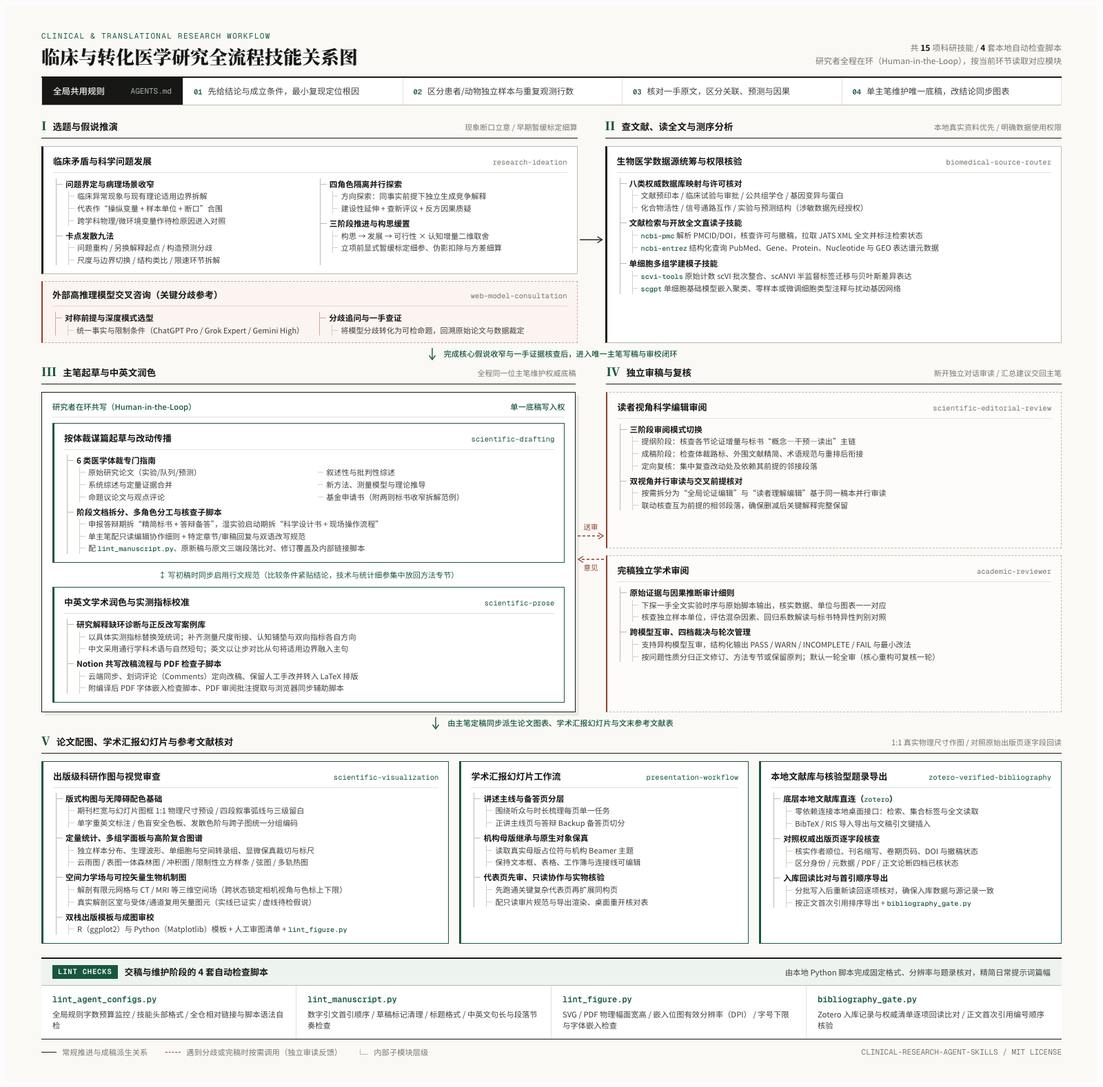
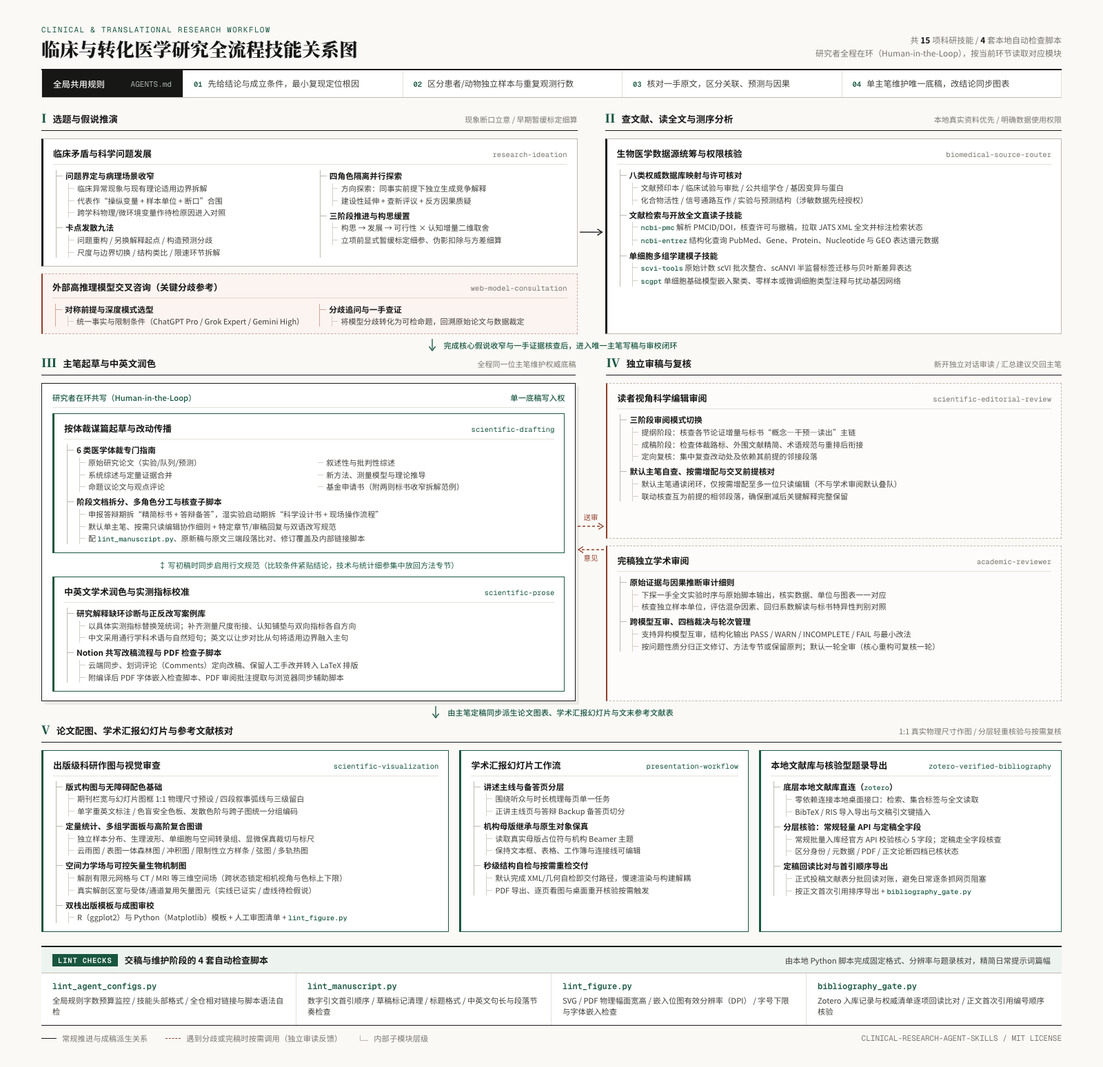
Streamline verification tiers and anti-stall delivery bounds across skills
- Add anti-stall delivery boundary and tiered verification defaults in AGENTS.md
- Decouple slide builds from slow rendering/desktop PowerPoint round-trips in presentation-workflow (second-level XML/geometry self-check by default; rendering/GUI checks on demand)
- Tier figure visual inspection in scientific-visualization (1 check + at most 1 recheck for standalone publication figures; static gate delivery for slide figures)
- Tier Notion readback in scientific-prose (local readback only after structural/batch/table-row edits)
- Default editorial review to single-lead self-check without auto-spawning or stacking subagents with academic-reviewer in scientific-drafting and scientific-editorial-review
- Add timeout/anti-stall handling and 1-round default cap in web-model-consultation
- Tier Zotero verification in zotero-verified-bibliography (structured API core-5-field check for routine imports; strict full-field readback for final submission bibliographies)
- Align README.md, README.en.md, docs/catalog.md, docs/workflow-overview.html, and docs/assets/skill-architecture.png

diff --git a/docs/workflow-overview.html b/docs/workflow-overview.html
@@ -737,7 +737,7 @@
                 <div class="branch-title">阶段文档拆分、多角色分工与核查子脚本</div>
                 <div class="tree-l2">
                   <div class="leaf">申报答辩期拆“精简标书 + 答辩备答”，湿实验启动期拆“科学设计书 + 现场操作流程”</div>
-                  <div class="leaf">单主笔配只读编辑协作细则 + 特定章节/审稿回复与双语改写规范</div>
+                  <div class="leaf">默认单主笔、按需只读编辑协作细则 + 特定章节/审稿回复与双语改写规范</div>
                   <div class="leaf">配 <span class="mini-code">lint_manuscript.py</span>、原新稿与原文三端段落比对、修订覆盖及内部链接脚本</div>
                 </div>
               </div>
@@ -810,9 +810,9 @@
                 </div>
               </div>
               <div class="branch">
-                <div class="branch-title">双视角并行审读与交叉前提核对</div>
+                <div class="branch-title">默认主笔自查、按需增配与交叉前提核对</div>
                 <div class="tree-l2">
-                  <div class="leaf">按需拆分为“全局论证编辑”与“读者理解编辑”基于同一稿本并行审读</div>
+                  <div class="leaf">默认主笔通读闭环，仅按需增配至多一位只读编辑（不与学术审阅默认叠队）</div>
                   <div class="leaf">联动核查互为前提的相邻段落，确保删减后关键解释完整保留</div>
                 </div>
               </div>
@@ -862,7 +862,7 @@
           <span class="col-num">V</span>
           <span class="col-title">论文配图、学术汇报幻灯片与参考文献核对</span>
         </div>
-        <span class="col-meta">1:1 真实物理尺寸作图 / 对照原始出版页逐字段回读</span>
+        <span class="col-meta">1:1 真实物理尺寸作图 / 分层轻重核验与按需复核</span>
       </div>
 
       <div class="stage5-grid">
@@ -925,10 +925,10 @@
               </div>
             </div>
             <div class="branch">
-              <div class="branch-title">代表页先审、只读协作与实物核验</div>
+              <div class="branch-title">秒级结构自检与按需重检交付</div>
               <div class="tree-l2">
-                <div class="leaf">先跑通关键复杂代表页再扩展同构页</div>
-                <div class="leaf">配只读审片规范与导出渲染、桌面重开核对表</div>
+                <div class="leaf">默认完成 XML/几何自检即交付路径，慢速渲染与构建解耦</div>
+                <div class="leaf">PDF 导出、逐页看图与桌面重开核验按需触发</div>
               </div>
             </div>
           </div>
@@ -949,16 +949,16 @@
               </div>
             </div>
             <div class="branch">
-              <div class="branch-title">对照权威出版页逐字段核查</div>
+              <div class="branch-title">分层核验：常规轻量 API 与定稿全字段</div>
               <div class="tree-l2">
-                <div class="leaf">核实作者顺位、刊名缩写、卷期页码、DOI 与撤稿状态</div>
+                <div class="leaf">常规批量入库经官方 API 校验核心 5 字段；定稿走全字段核查</div>
                 <div class="leaf">区分身份 / 元数据 / PDF / 正文论断四档已核状态</div>
               </div>
             </div>
             <div class="branch">
-              <div class="branch-title">入库回读比对与首引顺序导出</div>
+              <div class="branch-title">定稿回读比对与首引顺序导出</div>
               <div class="tree-l2">
-                <div class="leaf">分批写入后重新读回逐项核对，确保入库数据与源记录一致</div>
+                <div class="leaf">正式投稿文献表分批回读对账，避免日常逐条抓网页阻塞</div>
                 <div class="leaf">按正文首次引用排序导出 + <span class="mini-code">bibliography_gate.py</span></div>
               </div>
             </div>

diff --git a/AGENTS.md b/AGENTS.md
@@ -8,17 +8,17 @@
 ## 先行判断、根因工程与证据定标
 
 - **结论先行与根因排障**：分析评估先给出最受当前证据支持的结论及成立条件，证据未齐时明示阶段判断与待验假设；收到质疑时重核原始材料并交代实质修订依据。代码、生信管线与数值建模排障坚持**先最小复现定位根因（Fix Root Causes）**，查清量纲、主键连接、样本层级或状态流转机制后再修改，严禁在未明根因前用宽泛异常捕获、静默兜底或经验截断掩盖错误。
-- **确定性门禁与实事求是边界**：续作任务先核查并保留人工手改。对本次改动相关的可二值判定约束优先运行类型、Schema、Linter、测试或技能脚本验证；已通过且未受后续改动影响的检查不重复。脚本通过仅代表其实际覆盖项通过，绝不为消除提示删损必要科学限定；修文稿时顺带清掉同段残留标签，改代码时不顺手扩大到无关模块清理。
+- **确定性门禁与防卡死边界**：续作任务先核查并保留人工手改。对本次改动相关的可二值判定约束优先运行类型、Schema、Linter、测试或技能脚本验证；已通过且未受后续改动影响的检查不重复。脚本通过仅代表其实际覆盖项通过，绝不为消除提示删损必要科学限定；修文稿时顺带清掉同段残留标签，改代码时不顺手扩大到无关模块清理。涉及落盘产出的任务，慢速辅助检查须与主构建解耦或按需执行，严禁在未交付文件路径的情况下以“正在等待后台任务”结束回合。
 - **构思缓置与一手证据定标**：选题与假说推演调用 `research-ideation`，早期聚焦现象断口、核心假说与决定性判别预测，显式暂缓标定、伪影扣除与方差细算。事实主张须有实查代码、数据或权威数据库（经 `biomedical-source-router`）支撑，绝不编造引文或统计量；精读文献优先经 `ncbi-pmc` 获取开放获取 **PMC 全文 JATS XML** 直读（区分资源未找到与请求失败，确认无可用全文时再请用户提供 PDF），核清关键对照目的与具体实测指标。严守论断强度边界：区分关联/富集、对接几何构象与实测亲和力、预测结构、临床影像或连续监测信号同因果机制、临床疗效或细胞病理，区分孔板/视野/ROI 技术重复与独立生物学重复。
 
 ## 行文表达与领域工作流路由
 
 - **回答范围、直陈语体与媒介克制**：默认只回答当前问题，足以理解或行动即停，追问不复述既有共识，末尾不惯例追加总结或延伸服务。默认用简体中文，代码、标识符、包名、数据库与英文方法名保持英文，专业术语首现按需中英并列。优先采用具体主语与短而连贯的自然段（每段一事），省去预防性辩解与无真实分歧支撑的“不是……而是……”模板；仅在并列事项、步骤或多项比较时用列表/表格，长答标题用自然陈述句或清晰短语，禁用中圆点 `·` 串词。
 - **起草、体裁路标与改动传播**：谋篇起草或实质重构调用 `scientific-drafting`（前置挂载 `scientific-prose`，按需配 `scientific-editorial-review`，不自动扩队），既有文字润色调用 `scientific-prose`，按需运行 `lint_manuscript.py`；大幅压缩重排或合入审阅意见后须对最终导出稿做连贯度通读。医学与生物学课题以临床判别盲区或病理生理矛盾立意（问题统领方法，标定与排混退居方案支撑，有限周期课题优先做范围真减法而非仅压字数）。保持唯一主笔与单一源稿，核心主张、效应方向或主要基线变更时全域对齐摘要、正文与对应表图。按体裁区分路标与句法：期刊综述与标书压制空转总结，**命题议论文（Tutorial Essay）与观点评论须保留引言末句中心论断及各主节末尾扣题小结**；禁用生造偏正复合词或硬译审阅黑话，中文忌靠分号与长定语拼成百字代码式防御长句（合入限定须拆短句或归入难点表），英文用让步/对比从句内嵌边界（禁拆成电报短句或段尾孤立免责句），并用具体实测终点替代 `"killing"`、`"response"` 等伞状词。细节单点落位由 `scientific-prose` 维护，阶段载体拆分（`Backup` / `SOP`）由 `scientific-drafting` 维护。
-- **制图、汇报与书目门禁**：科研制图与审图调用 `scientific-visualization`，导出后先过 `lint_figure.py` 静态门禁再目视核查渲染图；幻灯片遵循 `presentation-workflow`（未指定模板时优先复用本地配置的机构学术模板技能）；书目导入、修复与顺序导出核验遵循 `zotero-verified-bibliography`；交付排版 TeX/PDF 前必先目视检查受影响页面。
+- **制图、汇报与书目门禁**：科研制图与审图调用 `scientific-visualization`（独立投稿图过 `lint_figure.py` 后目检 1 次，幻灯片附图跑完静态门禁即交付，禁反复像素微调循环）；幻灯片遵循 `presentation-workflow`（默认构建与秒级结构自检后直接交付路径由用户目检，仅按需导出 PDF、逐页渲染或桌面往返核验；未指定模板时优先复用本地配置的机构学术模板技能）；书目导入、修复与顺序导出核验遵循 `zotero-verified-bibliography`（常规入库走 API 核心字段轻量核对，定稿文献表再走全字段门禁）；正式论文/标书排版 TeX/PDF 交付前按需目视抽检受影响页面。
 
 ## 交付真值源、记忆与安全底线
 
-- **交付边界与 Notion 着色**：日常讨论与常规改句默认在聊天交付；仅在明确要求保存、维护既有记录或新建长期正式文档时写盘或写 Notion（若主力知识库为 Obsidian 或本地 Markdown，按实际工具校准唯一真值源）。无既定格式且启用 Notion 时：写前先读、保留手改、写后回读附链接，维护单一真值源，不擅自批量迁移、全页重染或公开分享。Notion 短语级克制着色：**红**标核心结论/关键数值与条件/易混区分，**蓝**标核心概念/流程/答案列表，**紫**标补充说明/示例，其余无色，纯文本导出保持纯文本。
+- **交付边界与 Notion 着色**：日常讨论与常规改句默认在聊天交付；仅在明确要求保存、维护既有记录或新建长期正式文档时写盘或写 Notion（若主力知识库为 Obsidian 或本地 Markdown，按实际工具校准唯一真值源）。无既定格式且启用 Notion 时：写前先读、保留手改，仅大改/改表后局部回读核对（局部单段写入成功即直接附链接，不整页重拉），维护单一真值源，不擅自批量迁移、全页重染或公开分享。Notion 短语级克制着色：**红**标核心结论/关键数值与条件/易混区分，**蓝**标核心概念/流程/答案列表，**紫**标补充说明/示例，其余无色，纯文本导出保持纯文本。
 - **跨会话记忆与系统安全**：涉及本地项目仓库地标或跨会话长期偏好维护时，先读取并按需同步本地配置的跨会话记忆文件。严禁越权删改原始数据、临床数据集、PDF、`.env`、密钥或锁文件，不向终端打印敏感数据或密钥；未经明确要求不执行 `git commit`、`amend`、`rebase`、`reset`、`stash` 或 `push`；`read-only` 只检不改，`handoff` 在当前目录生成 `HANDOFF.md`。
 <!-- SHARED_CORE_END -->

diff --git a/README.en.md b/README.en.md
@@ -42,7 +42,7 @@ Overall, tool-catalog projects address specific software packages and database i
 
 1. **Multi-Agent Trials and the Single-Lead-Author Architecture.** Informed by arXiv work on multi-agent research—*Towards an AI Co-Scientist* (`arXiv:2502.18864`), *IdeaScientist* (`arXiv:2610.04074`), and *Agent Laboratory* (`arXiv:2501.04227`)—local head-to-head comparisons between parallel multi-writer section-splitting and a single-writer workflow were conducted on an 80+-citation medical review and recurring revision cases. Splitting tightly coupled manuscripts across parallel writers consistently degraded coherence: shared definitions, notation, denominators, and comparison baselines drifted across sections, mutually dependent premises risked simultaneous deletion from adjacent chapters, and reconciling overlapping subagent critiques added heavy overhead. The workflow therefore enforces a **single-lead-author design**: one lead author holds exclusive write access to the canonical draft, while zero-history, **read-only** subagents inspect frozen snapshots for literature verification or completion review, filtered through a three-tier triage funnel (capped at one full audit plus at most one targeted re-check).
 2. **Medical Methodological Guides & Bilingual Prose Calibration.** Study-design and reporting rules draw on multi-journal clinical causal-inference guidance (Lederer et al., *Ann Am Thorac Soc*, 2019), *JAMA* observational causal framing and `Table 2` fallacy safeguards (Dahabreh & Bibbins-Domingo, *JAMA*, 2024; Westreich & Greenland, *Am J Epidemiol*, 2013), `TRIPOD+AI` (Collins et al., *BMJ*, 2024), small-sample distribution and microscopy standards (Weissgerber et al., *PLOS Biol*, 2015; Jambor et al., *PLOS Biol*, 2021), alongside structural writing principles from Mensh & Kording (*PLOS Comput Biol*, 2017), Gopen & Swan (*Am Sci*, 1990), Greenhalgh et al. (*Eur J Clin Invest*, 2018) / `SANRA`, and Bourne & Chalupa (*PLOS Comput Biol*, 2006). Calibrated through bilingual writing across Chinese reviews/grants and English tutorial essays, the rules distinguish genre roadmaps, enforce concise Chinese clauses and exact disciplinary terms, and use English concessive/contrastive subordination (`Although...`, `Whereas...`) with concrete assay readouts (`degranulation`, `cytolysis`) in place of umbrella words (`"killing"`, `"response"`).
-3. **Deterministic Static Linting and the Verification Boundary of Science.** Engineering enforcement borrows from SpaceX AI developer Lauren Tan (`@poteto`) in *All Code Is Slop (Except Mine)*, whose team paired strict static linters with automated runtime verification so agents could merge nearly ten thousand pull requests a month unattended (~0.5% revert rate). Yet software engineering and scientific inquiry differ fundamentally in verification: code compilation, type safety, and runtime behavior admit closed-loop machine checks, whereas no linter or test suite can verify whether a clinical question targets a real blind spot, whether controls rule out confounding, or whether an agent has drifted from the original hypothesis. Accordingly, offline Python standard-library scripts here enforce **objective mechanical invariants only**—citation order, leaked draft tags, overloaded sentences, SVG/PDF dimensions, font minimums, raster DPI, Zotero readback parity, and prompt character budgets—keeping daily prompts lean while leaving scientific judgment with the investigator.
+3. **Deterministic Static Linting, Tiered Verification & Anti-Stall Boundaries.** Engineering enforcement borrows from SpaceX AI developer Lauren Tan (`@poteto`) in *All Code Is Slop (Except Mine)*, whose team paired strict static linters with automated runtime verification so agents could merge nearly ten thousand pull requests a month unattended (~0.5% revert rate). Yet software engineering and scientific inquiry differ fundamentally in verification: code compilation, type safety, and runtime behavior admit closed-loop machine checks, whereas no linter or test suite can verify whether a clinical question targets a real blind spot, whether controls rule out confounding, or whether an agent has drifted from the original hypothesis. Accordingly, offline Python standard-library scripts here enforce **objective mechanical invariants only**—citation order, leaked draft tags, overloaded sentences, SVG/PDF dimensions, font minimums, raster DPI, Zotero readback parity, and prompt character budgets. To prevent **over-verification stalls** (such as mandatory slow slide rendering/PowerPoint round-trips, endless pixel-tweaking figure loops, per-article HTML scraping during routine Zotero imports, or stacking extra review subagents by default), every delivery skill separates **second-level default structural checks** from **on-demand heavy verification**, decouples slow checks from primary builds, and forbids ending a turn waiting on background checks before delivering output file paths.
 
 ---
 
@@ -51,8 +51,8 @@ Overall, tool-catalog projects address specific software packages and database i
 1. **Ideation & Cross-Model Consultation** — Frame testable competing hypotheses around clinical blind spots or pathophysiological contradictions while deferring low-level calibration math until study design solidifies; optionally cross-examine unresolved primary-source disagreements with an external high-reasoning model.
 2. **Primary Literature & Single-Cell Omics** — Check local records first, query NCBI E-Utilities, retrieve open-access PubMed Central JATS XML full text to inspect controls and figure readouts directly, and run standardized `scvi-tools` / `scgpt` single-cell workflows.
 3. **Single-Lead Drafting & Bilingual Prose** — Route across six academic genres, split grant defense backups (`Backup`) from bench/animal execution protocols (`SOP`), and keep essential denominators and observation windows attached to claims.
-4. **Zero-History Editorial & Academic Review** — Pair reader-flow checks after major restructuring with a completion-stage `Academic Reviewer` audit traced back to raw data and primary papers.
-5. **Figures, Slides & Verified Citations** — Produce 1:1 physical-dimension figures in Python/R, preserve editable native slide objects, and verify every bibliographic field against publisher metadata with readback checks in local Zotero Desktop.
+4. **Single-Lead Cohesion Check & Zero-History Academic Review** — Keep reader-flow checks in the lead author's pass by default (spawning at most one read-only editor only on explicit request or heavy restructuring, never stacked with `academic-reviewer` by default), paired with a completion-stage `Academic Reviewer` audit traced back to raw data and primary papers.
+5. **Figures, Slides & Tiered Verified Citations** — Produce 1:1 physical-dimension figures in Python/R (one visual check + at most one re-check for standalone publication figures; static gate delivery for slide figures), deliver slides immediately after second-level XML/geometry self-checks (rendering and desktop PowerPoint round-trips on demand), and use tiered Zotero verification (fast structured API checks for routine imports; full field-by-field verification and readback for final submission bibliographies).
 6. **Pre-Delivery Deterministic Gates** — Run offline standard-library Python linters across manuscripts, SVG/PDF figures, reference lists, and agent rule budgets alongside visual inspection of rendered outputs.
 
 ---

diff --git a/docs/catalog.md b/docs/catalog.md
@@ -8,7 +8,7 @@
 
 | 路径 | 职责说明 |
 | --- | --- |
-| [`AGENTS.md`](../AGENTS.md) | 跨 Harness 共用的全局默认规则核心（Shared Core），定义先行判断、最小复现根因排障、一手证据定标、体裁路标路由、交付真值源与安全边界 |
+| [`AGENTS.md`](../AGENTS.md) | 跨 Harness 共用的全局默认规则核心（Shared Core），定义先行判断、最小复现根因排障、防卡死边界与分层核验、一手证据定标、体裁路标路由、交付真值源与安全边界 |
 | [`hosts/codex.md`](../hosts/codex.md) | Codex 环境下的子代理隔离、`worktree` 并行改码与独立审阅衔接补充示例 |
 | [`hosts/antigravity-app.md`](../hosts/antigravity-app.md) | Antigravity 原生客户端环境下的模型继承、`swarm` 协作与 MCP 命令行兜底补充示例 |
 | [`hosts/t3-antigravity.md`](../hosts/t3-antigravity.md) | T3 Code 多提供方环境下的异构模型委派（`delegate_task`）与跨家族交叉审计补充示例 |
@@ -43,7 +43,7 @@
 
 - **[`scientific-drafting`](../skills/scientific-drafting/SKILL.md)**：唯一主笔统筹、体裁分流、依据映射与跨节改动同步
   - 体裁指南：[`original-research.md`](../skills/scientific-drafting/references/genres/original-research.md)（原始研究）、[`narrative-review.md`](../skills/scientific-drafting/references/genres/narrative-review.md)（叙述性综述）、[`evidence-synthesis.md`](../skills/scientific-drafting/references/genres/evidence-synthesis.md)（系统综述与证据综合）、[`methods-and-theory.md`](../skills/scientific-drafting/references/genres/methods-and-theory.md)（方法与理论）、[`proposal.md`](../skills/scientific-drafting/references/genres/proposal.md)（基金申请与阶段载体拆分）、[`argumentative-essay.md`](../skills/scientific-drafting/references/genres/argumentative-essay.md)（命题议论文与观点评论）
-  - 协作与局部载体：[`collaboration.md`](../skills/scientific-drafting/references/collaboration.md)（多角色只读协作与双向依赖回查）、[`sections-and-formats.md`](../skills/scientific-drafting/references/sections-and-formats.md)（特定章节、审稿回复与双语改写）、[`proposal-examples.md`](../skills/scientific-drafting/references/proposal-examples.md)（标书问题收窄节奏拆解）
+  - 协作与局部载体：[`collaboration.md`](../skills/scientific-drafting/references/collaboration.md)（默认单主笔、按需增配只读编辑与双向依赖回查）、[`sections-and-formats.md`](../skills/scientific-drafting/references/sections-and-formats.md)（特定章节、审稿回复与双语改写）、[`proposal-examples.md`](../skills/scientific-drafting/references/proposal-examples.md)（标书问题收窄节奏拆解）
   - 静态核查脚本：[`lint_manuscript.py`](../skills/scientific-drafting/scripts/lint_manuscript.py)、[`compare_cited_passages.py`](../skills/scientific-drafting/scripts/compare_cited_passages.py)、[`check_revision_coverage.py`](../skills/scientific-drafting/scripts/check_revision_coverage.py)、[`check_internal_links.py`](../skills/scientific-drafting/scripts/check_internal_links.py)
 - **[`scientific-prose`](../skills/scientific-prose/SKILL.md)**：中英文科研表达校准、伞状词还原以及全流程共用的“条件保留与细节落位”原则
   - [`references/complete-research-explanations.md`](../skills/scientific-prose/references/complete-research-explanations.md)：常见研究解释缺环诊断表与正反改写范例库
@@ -61,6 +61,6 @@
 - **[`scientific-visualization`](../skills/scientific-visualization/SKILL.md)**：1:1 物理尺寸科研制图、双栈代码驱动与视觉审查流程
   - 设计与领域参考库：[`design-preferences.md`](../skills/scientific-visualization/references/design-preferences.md)、[`color-palettes.md`](../skills/scientific-visualization/references/color-palettes.md)、[`data-and-omics-panels.md`](../skills/scientific-visualization/references/data-and-omics-panels.md)、[`advanced-chart-archetypes.md`](../skills/scientific-visualization/references/advanced-chart-archetypes.md)、[`spatial-mechanics.md`](../skills/scientific-visualization/references/spatial-mechanics.md)、[`schematics-and-assembly.md`](../skills/scientific-visualization/references/schematics-and-assembly.md)、[`plot-templates.md`](../skills/scientific-visualization/references/plot-templates.md)、[`figure-review.md`](../skills/scientific-visualization/references/figure-review.md)、[`evaluation.md`](../skills/scientific-visualization/references/evaluation.md)
   - 静态门禁脚本：[`scripts/lint_figure.py`](../skills/scientific-visualization/scripts/lint_figure.py)
-- **[`presentation-workflow`](../skills/presentation-workflow/SKILL.md)**：学术幻灯片叙事规划、母版继承与原生可编辑对象保真（含 [`story-and-scope.md`](../skills/presentation-workflow/references/story-and-scope.md)、[`template-and-native.md`](../skills/presentation-workflow/references/template-and-native.md)、[`collaboration.md`](../skills/presentation-workflow/references/collaboration.md)、[`checks.md`](../skills/presentation-workflow/references/checks.md)）
+- **[`presentation-workflow`](../skills/presentation-workflow/SKILL.md)**：学术幻灯片叙事规划、母版继承、原生可编辑对象保真与秒级结构自检快速交付（含 [`story-and-scope.md`](../skills/presentation-workflow/references/story-and-scope.md)、[`template-and-native.md`](../skills/presentation-workflow/references/template-and-native.md)、[`collaboration.md`](../skills/presentation-workflow/references/collaboration.md)、[`checks.md`](../skills/presentation-workflow/references/checks.md)）
 - **[`zotero`](../skills/zotero/SKILL.md)**：零第三方依赖操作本地 Zotero Desktop HTTP 接口（主脚本 [`scripts/zotero.py`](../skills/zotero/scripts/zotero.py)，路由表 [`references/local-api-routes.md`](../skills/zotero/references/local-api-routes.md)）
-- **[`zotero-verified-bibliography`](../skills/zotero-verified-bibliography/SKILL.md)**：权威源逐字段核对、写入后回读校验与按首引顺序导出参考文献表（规范见 [`references/manifest.md`](../skills/zotero-verified-bibliography/references/manifest.md)，门禁脚本 [`scripts/bibliography_gate.py`](../skills/zotero-verified-bibliography/scripts/bibliography_gate.py)）
+- **[`zotero-verified-bibliography`](../skills/zotero-verified-bibliography/SKILL.md)**：分层核验型题录管理（常规入库 API 轻量核对 + 投稿定稿全字段回读门禁）与按首引顺序导出参考文献表（规范见 [`references/manifest.md`](../skills/zotero-verified-bibliography/references/manifest.md)，门禁脚本 [`scripts/bibliography_gate.py`](../skills/zotero-verified-bibliography/scripts/bibliography_gate.py)）

diff --git a/skills/presentation-workflow/SKILL.md b/skills/presentation-workflow/SKILL.md
@@ -5,7 +5,7 @@ description: Create, edit, review or finalize slide-deck artifacts while preserv
 
 # 幻灯片制作与交付
 
-由一位主代理统筹权威幻灯片源，将叙事推进、模板继承、原生可编辑对象保真与最终交付对齐；尊重用户指定载体、模板、来源与既有工具链。
+由一位主代理统筹权威幻灯片源，将叙事推进、模板继承、原生可编辑对象保真与快速交付对齐；尊重用户指定载体、模板、来源与既有工具链。默认将视觉排版目视检查交由用户完成，AI 专注源稿构建与秒级程序化校验，不默认执行耗时渲染或桌面往返检查。
 
 ## 先选任务范围
 
@@ -13,24 +13,25 @@ description: Create, edit, review or finalize slide-deck artifacts while preserv
 
 | 任务类型 | 执行范围与路由 |
 | --- | --- |
-| 局部改字、微调对象位置或样式 | 主代理读取目标对象及必要邻页直接修改，仅核对 [核验表](references/checks.md) 受影响条目并保留未改设计 |
-| 新建全套、跨页重构或更换模板 | 加载 [讲述与范围](references/story-and-scope.md) 与 [模板与原生对象](references/template-and-native.md)，按 [协作规范](references/collaboration.md) 配一位只读演示审阅者核对全套产出 |
-| 单页新增或有限章节修订 | 主代理完成制作与核查；证据复杂或负担独立时增配一位审阅者 |
-| 审阅既有 PPT 或排查兼容性故障 | 当前代理以只读方式检查实际文件、渲染图像及必要来源，清晰列出缺陷与未核范围 |
-| 格式转换、保存或播放故障修复 | 核查对象保真、页面呈现及播放状态，并复用既有内容审阅 |
+| 局部改字、微调对象位置或样式 | 主代理读取目标对象及必要邻页直接修改，仅运行秒级结构自检并保留未改设计 |
+| 新建全套、跨页重构或更换模板 | 加载 [讲述与范围](references/story-and-scope.md) 与 [模板与原生对象](references/template-and-native.md)，由主代理直接完成构建与结构自检后交付；仅当用户明确要求独立审阅时再按 [协作规范](references/collaboration.md) 增配只读审阅者 |
+| 单页新增或有限章节修订 | 主代理完成制作、程序化校验并直接交付 |
+| 审阅既有 PPT 或排查兼容性故障 | 当前代理以只读方式检查实际文件（按需渲染目标页）及必要来源，清晰列出缺陷与未核范围 |
+| 格式转换、保存或播放故障修复 | 仅针对故障点核查对象保真、页面呈现及播放状态，并复用既有内容审阅 |
 | 解读幻灯片内容、润色讲稿或制作独立科学图 | 转交对应说明/行文（`scientific-prose`）或制图（`scientific-visualization`）流程 |
 
 涉单位、实验对比、核心结论或跨页叙事调整的局部修订按实质变更复核前后依赖。新建中文或双语学术幻灯片未指定模板时，优先选用用户本地配置的机构学术 Beamer 模板技能。
 
-## 制作与核验衔接
+## 制作与轻量校验
 
 1. **前置明确每页任务与继承对象**：新建或重构先梳理页面推进关系；套用模板时提前读取真实母版、版式占位符与原生组件；局部调整仅读取关联对象。
-2. **制作中先审代表页**：优先跑通关键比较页或复杂机理页的清晰度、模板贴合度与可编辑性，再扩展同构页面。
-3. **导出后逐项核验实物**：参照 [逐项核验表](references/checks.md) 记录适用项目的状态（已核 / 待修 / 未核 / 不适用）与实际依据；新稿审看全部页面，小改比较受影响页面并排除意外波及，同时依 [模板与原生对象](references/template-and-native.md) 核验字体、图表工作簿及连接线几何。
-4. **统一回写并闭环依赖**：主代理整合意见写回权威源稿，同步讲稿、备注及交叉页码，按要求交付原生文件及目标格式（如 PDF）。
+2. **控制构建粒度与脚本解耦**：将生成 `.pptx` 的构建脚本与可选的 PDF 导出/渲染脚本分开执行，严禁把慢速 LibreOffice 渲染或 GUI 往返检验串在构建命令后拖入后台长任务。
+3. **默认仅做秒级确定性自检**：对照 [核验表](references/checks.md) 执行默认必检项（构建退出码为 0、成品文件已更新且非空、纯 Python/XML 内存级结构自检通过——可正常重新读取、页数与隐藏属性正确、无负宽/负高几何、图像与资源引用有效；若改动了独立自绘科学图则对受影响图件运行 `lint_figure.py --mode slide`）。
+4. **重型核验默认关闭、严格按需触发**：**默认不执行** LibreOffice/PowerPoint 导出 PDF、逐页渲染 PNG、AI 逐页看图目检（`V1`）、桌面版 PowerPoint 打开—保存—关闭—重开往返核验（`D4`）或自动拉起审阅子代理。仅当用户明确要求“同时导出 PDF”“帮我渲染检查排版”或“排查 PowerPoint 打开报错/修复弹窗”时才按需执行对应项。
+5. **统一回写并闭环依赖**：主代理更新权威源稿，同步本次请求范围内的讲稿、备注及交叉页码。
 
 ## 完成与交付
 
-原生 PowerPoint 交付需在目标应用中实际执行打开、保存、关闭与重开，确认无修复弹窗与对象退化；当前环境无法访问原生桌面应用时，完成所有可用结构及渲染核查并如实标明应用兼容性“未核”。存在音视频媒体的页面需分别核实资源嵌入/链接、控件进尺及实际声画效果。
+构建与秒级结构自检通过后**立即交付**已保存权威文件（及用户明确要求的导出版本）的精确 `file://` 路径与简洁改动清单，将最终视觉版式检查交由用户完成。
 
-最终交付已保存的权威文件及指定导出版本，简明告知适用核查范围与遗留待核事项。科研正文起草与全面审计沿用 `scientific-drafting` 与 `academic-reviewer`；维护本技能自身评测时阅读 [行为测试](references/evaluation.md)。
+**防卡死硬约束**：严禁在尚未给出成品文件路径的情况下，以“正在等待后台 PDF 导出/逐页渲染核验完成”结束回合；若用户确需同步导出 PDF，先确保 `.pptx` 已落盘并在同一轮内拿到结果或明确交出已落盘文件路径后再结束。存在音视频媒体的页面按需确认资源嵌入/链接关系。科研正文起草与全面审计沿用 `scientific-drafting` 与 `academic-reviewer`；维护本技能自身评测时阅读 [行为测试](references/evaluation.md)。

diff --git a/skills/presentation-workflow/references/checks.md b/skills/presentation-workflow/references/checks.md
@@ -1,19 +1,26 @@
-# 幻灯片逐项核验
+# 幻灯片核验清单（默认轻量 + 按需重检）
 
-根据任务边界选取适用核验项。新稿或全套改版覆盖全部交付页；局部修改核查受影响页面与关联依赖，并通过对象/文件差异确认未改内容完好。逐项在上下文保留 ID、状态（**已核 / 待修 / 未核 / 不适用**）与简短位置依据；局部已确认部分拆分子项分别记明。
+按任务边界分层执行，避免用慢速渲染与桌面往返阻塞交付。默认流程仅跑**秒级程序化自检**；重型导出、逐页渲染看图与桌面软件往返检验均设为**按需触发**。
+
+## 一、默认必检项（秒级、无渲染、无 GUI）
 
 | ID 与适用情景 | 核心核验内容与证据依据 | 责任与时点 |
 | --- | --- | --- |
 | R1 — 全部交付任务 | 任务目标、语言、页数/时长、主讲/备答范围、输出路径与用户最新修正一致 | 主代理 / 开始前 |
-| C1 — 新稿或讲述重构 | 各页主旨、先后过渡、实验对照及发现推进清楚；标题准确概括正文且讲稿补充读图 | 主代理或审阅者 / 骨架与终稿 |
+| C1 — 新稿或讲述重构 | 各页主旨、先后过渡、实验对照及发现推进清楚；标题准确概括正文且讲稿补充读图 | 主代理 / 骨架与定稿 |
 | C2 — 科学事实或数据变化 | 对象、条件、比较、方向、时程、单位、数值及归属与一手来源一致，复用既有科学审阅 | 主代理 / 依据来源核对 |
-| T1 — 现稿编辑与模板适配 | 对照参考母版检查尺寸、主题配色、字体、混排文本框样式、页眉页脚、标识与图像裁切 | 主代理 / 制作前及受影响页 |
-| T2 — 原生可编辑对象 | 核查并确认文字、标签、表格行列、图表数据工作簿及流程图连接线维持原生可编辑对象（区分位图底图与原生标注） | 主代理 / 对象层及目标应用 |
-| F1 — PPTX 生成与排错 | 校验包内 XML 关系、资源引用与图形几何有效性（修复负宽/高导致的对象丢失或损坏），保留模板特例设计 | 主代理 / 结构工具与页面核查 |
-| V1 — 版式或输出变更 | 检查预定投影/阅读尺寸下的实际逐页渲染：换行、裁切、比例、字号、对比度、图像锐度、留白与页码清晰度 | 主代理或审阅者 / 渲染图像 |
-| V2 — 科学图件与机理图 | 核实图中分组对比、解剖定位、标签指代、箭头方向与比例尺保留，对接 `scientific-visualization` 核验结果 | 主代理 / 图源与实际页 |
-| D1 — 备注、讲稿与双语 | 当前页序、每页备注、独立讲稿及双语版本严密对应，写入前重读最新源稿以保留手动批注 | 主代理 / 保存前后回读 |
-| D2 — 页序、导航与隐藏状态 | 核对幻灯片 ID、显示/隐藏属性、主讲与备答区隔、内部跳转锚点与超链接有效 | 主代理 / 原生关系验证 |
-| D3 — 媒体嵌入与播放 | 核实音视频嵌入/外链路径、触发设置、播放进度及实际声画出力（未改媒体可复用既有结果） | 主代理 / 实机播放 |
-| D4 — 原生 PowerPoint 兼容 | 在 PowerPoint 中执行打开、保存、关闭、重开，核实零修复提示、零静默丢字及对象可编辑 | 主代理 / 原生应用（不可用记未核） |
-| D5 — 最终保存与文件交付 | 核对权威源文件、请求生成的 PDF/PPTX/讲稿对应一致且入口正常；按真实对象及内容差异核验 | 主代理 / 终稿交付前 |
+| T1 — 现稿编辑与模板适配 | 对照参考母版检查尺寸、主题配色、字体、混排文本框样式、页眉页脚与图像裁切逻辑 | 主代理 / 制作前及受影响页 |
+| T2 — 原生可编辑对象 | 确认文字、标签、表格行列、图表数据工作簿及流程图连接线在对象层维持原生可编辑 | 主代理 / 对象层脚本校验 |
+| F1 — PPTX 生成与排错 | 内存级校验包内 XML 关系、可重读性、资源引用与图形几何有效性（无负宽/高、无断链） | 主代理 / 秒级结构脚本 |
+| V2 — 独立自绘科学图件 | 核实图源对比、标注与比例尺；改动独立自绘矢量图时跑 `lint_figure.py --mode slide` | 主代理 / 仅改动图件时 |
+| D1 — 备注、讲稿与双语 | 当前页序、每页备注、独立讲稿及双语版本对应一致，写入前重读源稿以保留手动批注 | 主代理 / 保存前后 |
+| D2 — 页序、导航与隐藏状态 | 核对幻灯片 ID、显示/隐藏属性、主讲与备答区隔、内部跳转锚点与超链接关系 | 主代理 / 原生 XML 校验 |
+| D5 — 最终保存与文件交付 | 确认权威源文件（及用户请求的导出文件）退出码为 0、非空且时间戳已更新，直接给出精确 `file://` 路径 | 主代理 / 终稿交付前 |
+
+## 二、按需重检项（默认关闭，仅用户明确要求或排查故障时启用）
+
+| ID 与触发条件 | 核心核验内容与证据依据 | 责任与时点 |
+| --- | --- | --- |
+| V1 — 用户明确要求渲染检查排版，或只读排查视觉缺陷 | 仅对目标页（避免无差别全量重渲染）导出并检查换行、裁切、重叠、字号、对比度与页码清晰度 | 主代理（或应要求增配的审阅者） |
+| D3 — 页面新增或修改音视频媒体 | 核实音视频嵌入/外链路径、触发设置；仅在排查播放故障时做实机声画验证 | 主代理 / 按需实机核验 |
+| D4 — 排查 PPTX 修复弹窗或兼容性故障，或用户明确要求桌面验收 | 在 PowerPoint 中执行打开、保存、关闭、重开，核实零修复提示、零静默丢字及对象可编辑 | 主代理 / 原生应用（不可用记未核） |

diff --git a/skills/zotero-verified-bibliography/SKILL.md b/skills/zotero-verified-bibliography/SKILL.md
@@ -13,13 +13,17 @@ description: Import or correct Zotero bibliographic records with source checks a
 - 修改任何条目之前先读取现状，沿用稳定的文库 ID 与条目标识键（item key），并完整保留无关的集合归属、标签、附件、PDF 批注与笔记；大范围重组前先做备份，小批量修订保留重点前后对照证据。
 - DOI 或题名匹配仅确立文献身份一致，其余题录字段须逐项核查后方能放行；汇报核查结果时清晰区分四项状态：**身份已核**、**元数据已核**、**PDF 附件已备**与**正文科学论断已核**。
 
-## 条目导入与元数据修复
+## 条目导入与元数据修复（分层核验）
 
-1. **查重识别。** 综合检索 DOI、PMID、ISBN 与完整题名以确认库内状态。规范标识符前缀与大小写后保留原值，存在多条候选时全部保留；严格区分预印本、正式发表版（version of record）、勘误与撤稿记录。
-2. **对照权威来源逐字段核查。** 优先核对出版商论文页面或摘要页及权威题录记录，遇缺失或冲突字段时引入第二权威来源交叉验证；记录实际采用的录入途径（Connector、DOI 解析、PDF 识别、RIS/BibTeX 或 JSON API）。核查条目类型（`itemType`）、题名、按顺序排列的个人/团体作者、发表日期与发表状态；期刊论文额外核查刊名、卷号、期号、起止页码或文章编号；图书、章节、预印本相应核对版次、出版社、ISBN、编者、章节页码或仓储版本。确实尚未分配（如 online-first）或不适用的字段留空并写明理由，按出版页面如实区分在线发表日期与正式期卷。
-3. **准备可比对的预期载荷。** 事先保存预期写入字段、支撑来源位置、目标文库/集合以及匹配/新建标识键。预期值须直接取自权威题录来源并独立于写入接口返回值。完整保留作者姓名后缀与变音符号、团体作者全称、电子页码前缀与文章编号，拦截缺位数字、作者顺位错乱与起始页码偏移。
-4. **分批写入与回读核验。** 使用受支持的工具或 API 开展有界批处理并传入版本前置条件；新写入路径先通过小批量代表样本验证。写入后按返回的新旧 key 逐条重新 `GET` 拉取入库记录，逐字段比对全部提交字段以及预期集合、标签、附件与笔记完整性。
-5. **出现偏差立即熔断所在批次。** 完整保留预期载荷、写入响应与新 `GET` 回读快照；对可能已部分成功的新建请求先按返回 key 或标识符对账防重，再在授权范围内修正受影响条目。日志中严格隐藏 API 密钥与鉴权请求头。
+先按任务场景选择核验档位，避免在日常批量入库时逐篇抓取网页与逐条回读：
+
+- **常规批量入库 / 草稿书目整理（默认轻量档）**：
+  1. **API 查重与批量拉取**：优先通过 Crossref / PubMed / PMC 等官方结构化 API 批量校验核心 5 字段（`DOI/PMID`、第一作者、年份、刊名、标题），确认不重录且区分预印本与正式版，**不逐篇抓取出版商 HTML 网页**。
+  2. **批次写入与轻量对账**：分批写入后按返回的新增/更新 item key 做一次批量存在性与关键字段核查即可交付，不逐条循环 `GET` 比对全部附属字段与附件。
+- **正式投稿定稿 / 基金最终文献表 / 显式元数据修错（严格核验档）**：
+  1. **查重识别**：综合检索 DOI、PMID、ISBN 与完整题名以确认库内状态；规范标识符前缀与大小写后保留原值，严格区分预印本、正式发表版（version of record）、勘误与撤稿记录。
+  2. **对照权威来源逐字段核查**：以 Crossref/PubMed/PMC/出版商页面为准，仅遇缺失或冲突字段时引入第二权威来源交叉验证；核查条目类型、题名、完整作者序、发表日期与状态、刊名、卷期、起止页码或文章编号（尚未分配或不适用的字段留空并说明）。
+  3. **有界写入与回读**：保存预期载荷并分批写入（传入版本前置条件），写入后按返回 key 批量回读比对提交字段及原有集合/标签/附件完整性；发现偏差仅熔断所在批次并保留对账快照，日志严格隐藏 API 密钥与鉴权头。
 
 使用 [核验清单与只读门禁脚本](references/manifest.md) 开展确定性校验；该脚本保持严格只读，写入操作由既有工具完成。
 

diff --git a/skills/presentation-workflow/references/collaboration.md b/skills/presentation-workflow/references/collaboration.md
@@ -1,26 +1,26 @@
 # 分工与改动传播
 
-用于整套构建、模板迁移或独立复核；主代理作为唯一写入者负责统筹与交付。
+主代理作为唯一写入者负责统筹、构建、轻量校验与直接交付。默认由主代理独立完成，**不自动增配**只读演示审阅子代理，避免额外渲染与多轮等待。
 
-| 任务类型 | 最小协同配置 |
+| 任务类型 | 默认配置 |
 | --- | --- |
-| 局部改字/调位、简短文稿或定向导出 | 主代理独立制作并核验受影响页与输出文件 |
-| 新建全套、跨页重构或更换模板 | 主代理 + 一位独立只读演示稿审阅者，统筹核查讲述、模板、视觉呈现与交付项 |
-| 与排版相互独立的密集文献/数据核查 | 确有并行增益时增派一位有边界内容核查协作者 |
+| 局部改字/调位、单页新增、简短文稿或定向导出 | 主代理独立制作、秒级结构校验并直接交付 |
+| 新建全套、跨页重构或更换模板 | 默认主代理独立完成制作与交付；仅当用户明确要求独立全套审阅时，再增配一位只读演示审阅者 |
+| 与排版相互独立的密集文献/数据核查 | 确有并行增益时可增派一位有边界内容核查协作者 |
 | 只读排查既有文件缺陷 | 当前代理直接只读审阅并汇报具体问题与未核范围 |
-| 达标正式科研交付物审计 | 直接复用或调用 `academic-reviewer`，演示审阅聚焦载体与呈现质量 |
+| 达标正式科研交付物审计 | 复用或按触发条件调用 `academic-reviewer`，不叠加演示审阅子代理 |
 
-协作者保持父会话模型与提供方；委派前说明分工，同稿不可并行编辑或递归派生子代理。审阅者接收固定候选文件、实际渲染页、最新要求、模板与核查边界，基于实物逐项审看并返回精确页码、缺陷影响、最小改法及未核范围。主代理优先跑通复杂代表页后再铺开同类页面，核实意见后统一修订。
+确需增配协作者时，保持父会话模型与提供方；委派前说明分工，同稿不可并行编辑或递归派生子代理。审阅者严格只读，基于固定候选文件与指定核查边界返回精确页码、缺陷影响、最小改法及未核范围，主代理核实后统一修订并立即交付。
 
 | 变动范围 | 需同步回查的对象与页面 |
 | --- | --- |
-| 标签文案、坐标位置、字色或字号 | 指定原生对象、邻近图文间距、所在页实际渲染及对应图例编码 |
-| 数值、单位、实验比较或结论 | 一手源数据/文献、关联论证页、图表、演讲备注及讲稿（必要时交原科学审阅复核） |
+| 标签文案、坐标位置、字色或字号 | 指定原生对象、邻近图文边界坐标及对应图例编码 |
+| 数值、单位、实验比较或结论 | 一手源数据/文献、关联论证页、图表、演讲备注及讲稿 |
 | 调整页序、主讲/备答划分或增删页 | 内部导航跳转、隐藏属性、页码引用、备注/讲稿对齐与前后过渡 |
-| 更改母版、主题、字体或公共版式 | 继承该母版的全部页面 |
-| 科学图件更新或局部放大 | 源图文件、比较与空间关系、标注连线及 `scientific-visualization` 验收结果 |
+| 更改母版、主题、字体或公共版式 | 继承该母版的页面占位符与样式引用 |
+| 科学图件更新或局部放大 | 源图文件、比较与空间关系、标注连线及 `lint_figure.py --mode slide` 结果 |
 | 图表或表格底层数据与结构 | 数值序列、分类轴、行列结构、工作簿链接、原生编辑性及对应解说 |
-| 兼容性修复或切换导出工具 | 对象与关联保留、受影响页显示、隐藏页/备注/跳转/媒体及原生软件重开表现 |
-| 导出 PDF 或另存副本 | 权威源一致性、实际输出页面渲染与请求功能验证 |
+| 兼容性修复或切换导出工具 | 对象与关联保留、隐藏页/备注/跳转/媒体，必要时再做目标页渲染或原生重开 |
+| 用户要求同步导出 PDF 或另存副本 | 权威源一致性与请求输出文件的完整落盘 |
 
-简单定点的修改由主代理直接闭环检查；遇未决争议或影响全局叙事/科学前提的变更时，发回原审阅者定向复查受影响范围后即收尾交付。
+常规修订由主代理在对象层与源码层闭环检查后直接交付路径，不启动额外复核循环。

diff --git a/skills/scientific-editorial-review/SKILL.md b/skills/scientific-editorial-review/SKILL.md
@@ -15,11 +15,11 @@ description: Review argument structure and reader understanding during substanti
 
 三者属于按任务切换的审阅重点，按需选用最小有效编制，子代理显式继承当前会话模型（`Model="inherit"` 或 `swarm` 默认继承）。
 
-## 固定候选稿与并行分工
+## 固定候选稿与最小编制
 
-局部段落安排一位编辑连同必要邻接上下文通读即可。全稿审阅优先由主笔兼看结构与读者理解，或在注意力负担明显可分时增派一位只读编辑；资料繁重且需密集对照文献的全文重构采用“主笔 + 研究比较编辑”的精简组合。拆分为并行视角时仅分派**全局论证**（中心问题、各节增量、跨节重复）与**读者理解**（概念出场顺序、指代消解、比较清晰度、因果桥接）两位只读审阅者，基于同一份固定快照同时读稿。独立长章按论证单元分配并保留足够邻接上下文，跨章耦合由全局视角统一把关。
+**默认由主笔本人通读自查，不自动派生独立编辑子代理，也不与 `academic-reviewer` 默认并行叠加。** 仅当用户明确要求额外编辑审阅，或超长文稿确实存在互相独立且单代理难以兼顾的注意力瓶颈时，才增派至多一位只读编辑（确需拆分“全局论证”与“读者理解”双视角仅限明确要求或特长全稿重构）。
 
-并行交办采用 [科研起草协作短准备与原新对照](../scientific-drafting/references/collaboration.md#短准备与原新对照) 机制，直接交付固定稿本、审阅范围、核心证据锚点与已确认配对记录。所有审阅者严格只读且独立完成首读，仅回报有凭有据的实质问题（包含**精确位置、判断依据与对读者/论证的影响、最小可行改法及依赖范围**），清楚分开逻辑硬伤与纯属文风偏好，并将“已核范围内未发现实质缺陷”及“因缺材料而未核范围”作为正常结论如实写明。主笔作为唯一写入者裁决并更新权威源稿，完整保留用户手动批注与双端同步规范。
+确需并行交办时采用 [科研起草协作短准备与原新对照](../scientific-drafting/references/collaboration.md#短准备与原新对照) 机制，直接交付固定稿本、审阅范围、核心证据锚点与已确认配对记录。所有审阅者严格只读且独立完成首读，仅回报有凭有据的实质问题（包含**精确位置、判断依据与对读者/论证的影响、最小可行改法及依赖范围**），清楚分开逻辑硬伤与纯属文风偏好，并将“已核范围内未发现实质缺陷”及“因缺材料而未核范围”作为正常结论如实写明。主笔作为唯一写入者裁决并更新权威源稿，完整保留用户手动批注与双端同步规范。
 
 ## 整合修改且不丢失解释
 
@@ -27,4 +27,4 @@ description: Review argument structure and reader understanding during substanti
 
 采纳删减建议前，先划定互相替代或互为前提的**关联依赖范围**统一裁断：当两位审阅者各自以“另一处已写”为由建议删除同义陈述时，必须基于叠加改动后的新版全文核查，确保关键前提至少在最合适的落位完整保留。
 
-若编辑或润色触及科学事实、对照设定或结论强度实质变更，按触发条件转交 [Academic Reviewer](../academic-reviewer/SKILL.md) 开展一次科学审计；反之科学核查改动读者前提后也须退回编辑复查衔接。并行意见冲突时直接回溯改后新稿与一手文献裁决。作用域内关键缺陷修复完成、依赖邻文回读通过即收手交付，并在最终回复中简明列出实质遗留局限与实际审阅覆盖范围。
+若编辑或润色触及科学事实、对照设定或结论强度实质变更，按触发条件转交 [Academic Reviewer](../academic-reviewer/SKILL.md) 开展一次科学审计；科学核查改稿后由主笔本人通读邻文闭合衔接即可，**不自动退回编辑子代理再跑一轮**。作用域内关键缺陷修复完成、依赖邻文通读通过即收手交付，并在最终回复中简明列出实质遗留局限与实际审阅覆盖范围。

diff --git a/skills/scientific-visualization/SKILL.md b/skills/scientific-visualization/SKILL.md
@@ -44,6 +44,8 @@ description: Create, upgrade, or edit publication-grade scientific figures and m
 
 ## 核验与交付闭环
 
-1. **先核实数据溯源，再跑确定性静态门禁**：检查精确表连接、计量单位、分母、独立生物学样本量 `n` 与技术重复区分及缺失值处理；导出 PDF/SVG 后先运行 [lint_figure.py](scripts/lint_figure.py)（默认 `--mode manuscript`，幻灯片传 `--mode slide`）。按已确定的载体要求使用 `--allow-cjk`、可重复的 `--allow-font FAMILY`、`--max-width-mm`、`--max-height-mm` 与 `--min-dpi` 覆盖默认样式；不要为了通过而放宽真实要求。脚本检查声明物理尺寸、PDF 嵌字、部分字体/文字规则与位图实际分辨率；SVG 的 `<text>`/`<path>` 只能提示编辑性，不能证明所有文字可编辑。CSS 布局、嵌套视口、`<use>` 实例或缺失工具等未覆盖项按输出标明未核，必要时检查最终渲染 PDF；静态通过不代表科学关系、可读性或期刊要求全部通过。
-2. **必须目视检验实际导出的成品图像**（借助宿主图像查看工具直接打开导出的 PDF/PNG），逐项对照 [图件审核门禁](references/figure-review.md) 检查：1:1 尺寸清晰度、独立 `A, B, C` 编号对齐、无 `ABCD + 子图标题` 冗余头标、文字无重叠或裁切、单轴单一物理单位及图例对应关系；发现任何碰撞或排印瑕疵立即返修后再交付。
+1. **先核实数据溯源，再跑确定性静态门禁**：检查精确表连接、计量单位、分母、独立生物学样本量 `n` 与技术重复区分及缺失值处理；导出 PDF/SVG 后先运行 [lint_figure.py](scripts/lint_figure.py)（默认 `--mode manuscript`，幻灯片传 `--mode slide`）。按已确定的载体要求使用 `--allow-cjk`、可重复的 `--allow-font FAMILY`、`--max-width-mm`、`--max-height-mm` 与 `--min-dpi` 覆盖默认样式；不要为了通过而放宽真实要求。脚本检查声明物理尺寸、PDF 嵌字、部分字体/文字规则与位图实际分辨率；SVG 的 `<text>`/`<path>` 只能提示编辑性，不能证明所有文字可编辑。CSS 布局、嵌套视口、`<use>` 实例或缺失工具等未覆盖项按输出标明未核，静态通过不代表科学关系、可读性或期刊要求全部通过。
+2. **按载体分级目视复核，严禁陷入像素微调死循环**：
+   - **独立投稿图 / 基金主图（新建或实质重设计）**：导出后用宿主图像查看工具目视检查 1 次实际成品（对照 [图件审核门禁](references/figure-review.md) 核查清晰度、独立 `A, B, C` 分图编号对齐、文字无重叠或裁切、单轴单一物理单位与图例对应）；发现硬伤集中一次性修完即可交付，**至多复查 1 次**，严禁“看图 → 微调 2px → 重导 → 再看图”反复循环。
+   - **幻灯片配套示意图 / 批量局部微调**：跑通 `lint_figure.py --mode slide` 且确认导出文件已更新即可直接交付给用户目视检查；仅在明确修复具体重叠/裁切缺陷时针对该单图抽看 1 次确认，不再对多张幻灯片附图逐张渲染自检。
 3. **保持源资产洁净同步**：将可复现绘图脚本、可编辑矢量母版文件与规定导出成品一并保存。仅在维护或测试 `scientific-visualization` 本技能自身时才需读取 [技能自测规范](references/evaluation.md)。

diff --git a/skills/presentation-workflow/references/template-and-native.md b/skills/presentation-workflow/references/template-and-native.md
@@ -4,13 +4,13 @@
 
 ## 资产与原生结构继承
 
-- **完整继承模板特征**：启动前核实页面尺寸、母版/版式继承、主题色、字体、混合文本框样式、页眉页脚、标识、导航、背景、图像比例/裁切与代表页；局部改字保留原有公共母版，调整母版或公共元件时同步排查全部受影响页面。
+- **完整继承模板特征**：启动前核实页面尺寸、母版/版式继承、主题色、字体、混合文本框样式、页眉页脚、标识、导航、背景、图像比例/裁切与代表页；局部改字保留原有公共母版，调整母版或公共元件时同步排查继承该母版的页面。
 - **保留精细对象形态**：逐文字段与段落维持混排文本框格式；保留图像有效分辨率、原始宽高比、比例尺与关键裁切视野；科研图像像素修改或重绘严格按授权范围处理。
 - **保持原生可编辑性**：需后续编辑的正文、标注、表格、统计图表与流程图连接线均维持原生可编辑对象（图表保留源数据序列与工作簿关联；无字底图配合原生叠加标签时准确写明各自编辑范围）。连接线端点贴合对应节点，确保几何参数无负宽/高异常。
-- **同步保留隐藏与媒体关系**：在对象引用与实际内容层面核对隐藏页显示状态、演讲备注、超链接跳转及音视频播放设置。
+- **同步保留隐藏与媒体关系**：在对象引用与 XML 结构层面核对隐藏页显示状态、演讲备注、超链接跳转及音视频播放设置。
 
 ## 原生保存、兼容与故障排查
 
-优先采用最能完整保留源对象的原生编辑器或连接器处理对应格式。新建整套、重新生成、兼容性修复及正式交付 PPTX 时，在 PowerPoint 中完成打开—保存—关闭—重开流程，核对无静默删改或样式偏移；保存测试副本时保持版本对应且勿关闭无关用户文档。
+优先采用最能完整保留源对象的原生编辑器或程序接口处理对应格式。日常新建、重构与改稿完成构建及内存级 XML/几何自检后即可直接交付 `.pptx`，**默认不启动**桌面 PowerPoint 执行“打开—保存—关闭—重开”往返核验。
 
-如遇修复警告，并排比对故障原稿与修复后副本定位具体 XML 关系、生成器几何误差或媒体引用错误，修正权威源后重验输出。静态预览与 PDF 仅核查图文排版，媒体页另行核查加载与实际声画播放，无原生应用可用时记录准确未核范围后交付。
+仅在**排查 PowerPoint 修复警告/兼容性故障**，或**用户明确要求桌面软件验收**时，再于 PowerPoint 中执行打开—保存—关闭—重开流程（保存测试副本时保持版本对应且勿关闭无关用户文档）。如遇修复警告，并排比对故障原稿与修复后副本定位具体 XML 关系、生成器几何误差或媒体引用错误，修正权威源后重验输出。
